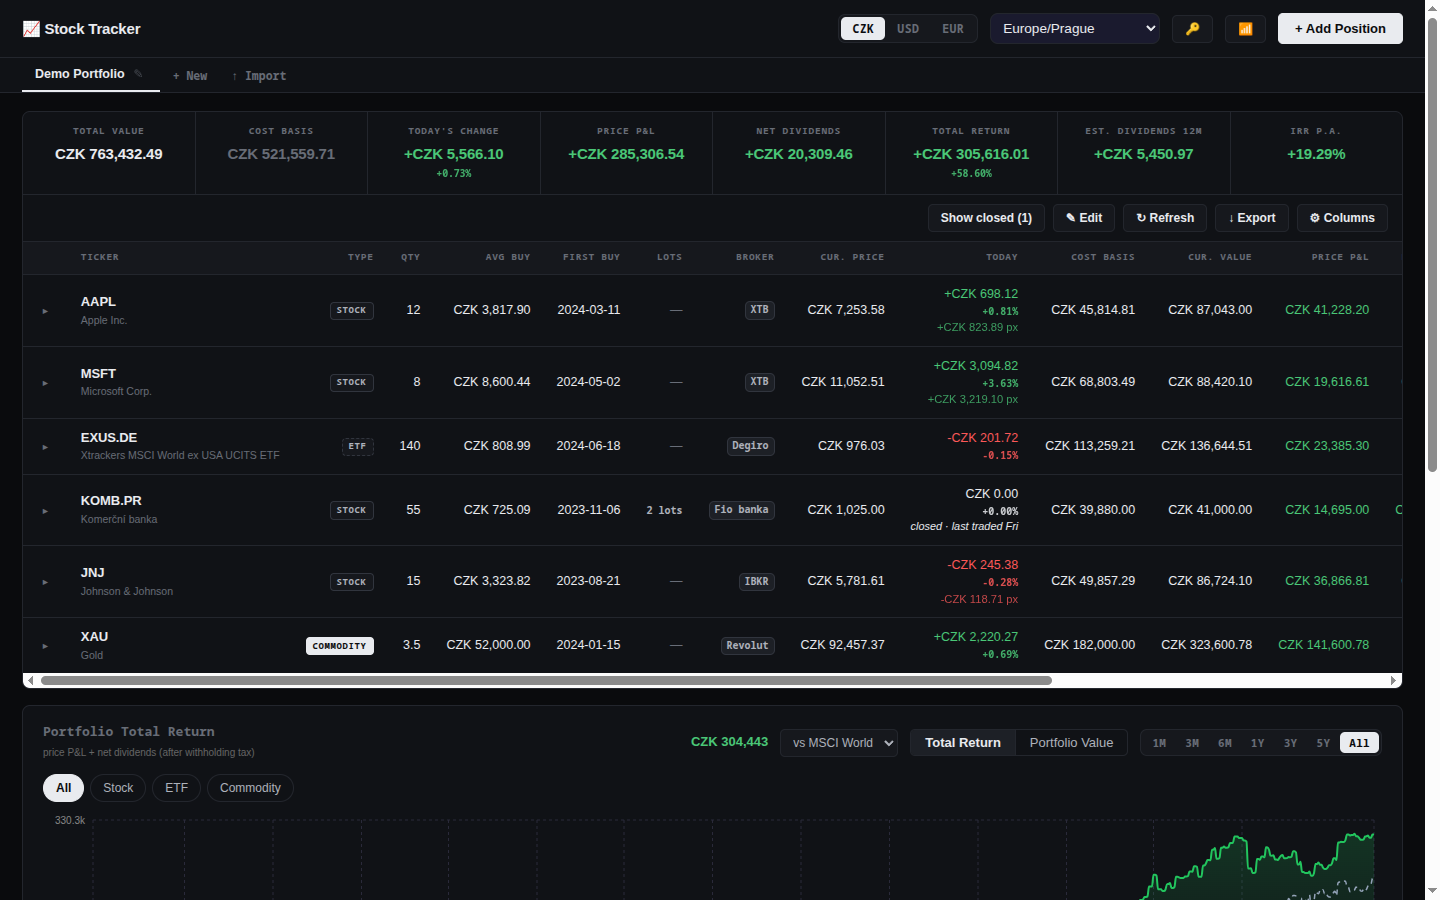
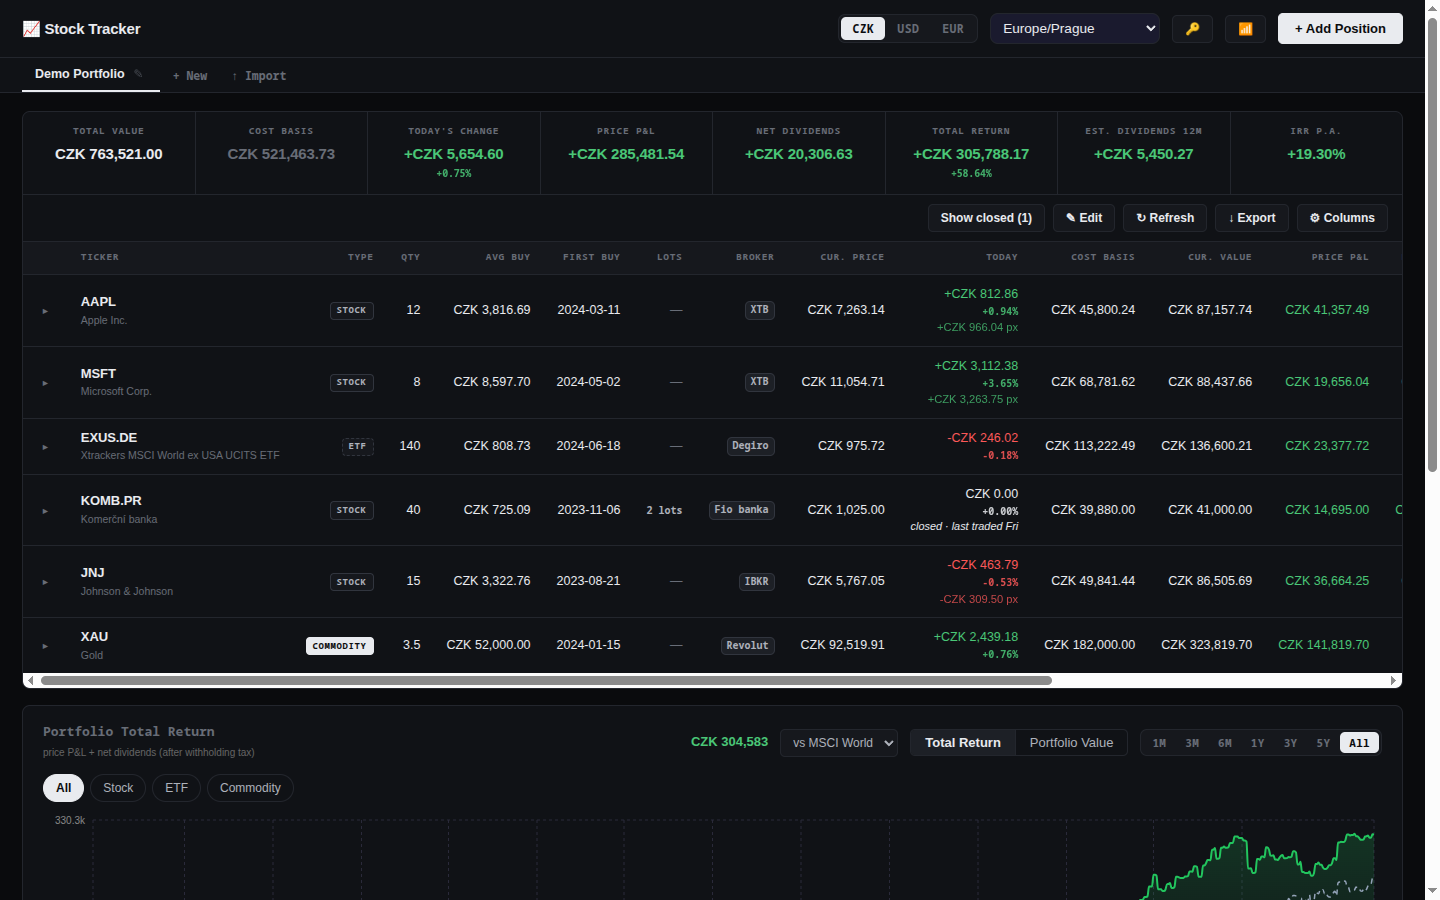
fix: Qty shows shares still held, not every share ever bought
The web Qty column (and its sort) read totalQuantity, which also counts
sold lots, so a partly sold ticker showed 55 while 40 were held. Rows now
carry openQuantity, derived in both apps and pinned by the parity fixture.

The same mix-up priced manual funds wrong: the total value you enter was
divided by every share ever bought instead of the shares held, on web and
Android. Android's sell dialog likewise previewed P&L on all lots at the
lifetime average; it now uses the open lots, as the web modal does.

diff --git a/src/components/PortfolioTable.tsx b/src/components/PortfolioTable.tsx
@@ -343,11 +343,14 @@ export function PortfolioTable({
 
   const startEdit = (ticker: string, prefill: string) => { setEditingTicker(ticker); setEditValue(prefill); setEditError(null) }
   const cancelEdit = () => { setEditingTicker(null); setEditValue(''); setEditError(null) }
-  const commitEdit = (ticker: string, totalQty: number) => {
+  // Value ÷ shares still held: current value is price × open quantity, so dividing by every
+  // share ever bought would understate the price of a partly sold position.
+  const commitEdit = (ticker: string, openQty: number) => {
     const raw = editValue.replace(/\s/g, '').replace(',', '.')
     const totalValue = parseFloat(raw)
     if (!raw || !isFinite(totalValue) || totalValue <= 0) { setEditError('Enter a valid positive number'); return }
-    onSetManualPrice(ticker, totalValue / totalQty)
+    if (openQty <= 0) { setEditError('No open shares to price'); return }
+    onSetManualPrice(ticker, totalValue / openQty)
     cancelEdit()
   }
 
@@ -462,7 +465,7 @@ export function PortfolioTable({
     switch (key) {
       case 'ticker': return r.ticker
       case 'type': return r.type
-      case 'qty': return r.totalQuantity
+      case 'qty': return r.openQuantity
       case 'avgBuy': return cv(r.avgBuyPrice, r.currency)
       case 'firstBuy': return r.firstBuyDate
       case 'lots': return r.lots
@@ -680,11 +683,11 @@ export function PortfolioTable({
                     title="Enter current total position value from your bank report"
                     onChange={(e) => { setEditValue(e.target.value); setEditError(null) }}
                     onKeyDown={(e) => {
-                      if (e.key === 'Enter') commitEdit(r.ticker, r.totalQuantity)
+                      if (e.key === 'Enter') commitEdit(r.ticker, r.openQuantity)
                       if (e.key === 'Escape') cancelEdit()
                     }}
                   />
-                  <button className="price-edit-ok" onClick={() => commitEdit(r.ticker, r.totalQuantity)}>✓</button>
+                  <button className="price-edit-ok" onClick={() => commitEdit(r.ticker, r.openQuantity)}>✓</button>
                   <button className="price-edit-cancel" onClick={cancelEdit}>✕</button>
                   {editError && <span className="price-edit-err-msg">{editError}</span>}
                 </span>
@@ -797,7 +800,7 @@ export function PortfolioTable({
                           )
 
                         case 'qty':
-                          return <td key={col.key} className={cls}>{fmtQty(r.totalQuantity)}</td>
+                          return <td key={col.key} className={cls}>{fmtQty(r.openQuantity)}</td>
 
                         case 'avgBuy':
                           return <td key={col.key} className={cls}>{fmtPrice(cv(r.avgBuyPrice, r.currency), displayCurrency)}</td>

diff --git a/android/feature/portfolio/src/main/kotlin/com/stocktracker/feature/portfolio/SellPositionDialog.kt b/android/feature/portfolio/src/main/kotlin/com/stocktracker/feature/portfolio/SellPositionDialog.kt
@@ -13,6 +13,7 @@ import androidx.compose.runtime.remember
 import androidx.compose.runtime.setValue
 import androidx.compose.ui.Modifier
 import com.stocktracker.core.designsystem.components.AppDialog
+import com.stocktracker.core.calc.isOpenLot
 import com.stocktracker.core.model.PortfolioRow
 import java.time.LocalDate
 import java.util.Locale
@@ -24,14 +25,19 @@ fun SellPositionDialog(row: PortfolioRow, onDismiss: () -> Unit, onConfirm: (sel
     var sellDate by remember { mutableStateOf(LocalDate.now().toString()) }
 
     val price = sellPrice.toDoubleOrNull() ?: 0.0
-    val estimatedPnl = if (price > 0) (price - row.avgBuyPrice) * row.totalQuantity else null
+    // Only the open lots are sold, so the preview uses their quantity and average buy price —
+    // the row-level figures also count lots sold earlier. Mirrors SellPositionModal.
+    val openLots = row.positions.filter(::isOpenLot)
+    val openQty = openLots.sumOf { it.quantity }
+    val openAvgBuy = if (openQty > 0) openLots.sumOf { it.buyPrice * it.quantity } / openQty else 0.0
+    val estimatedPnl = if (price > 0 && openQty > 0) (price - openAvgBuy) * openQty else null
 
     AppDialog(
         onDismissRequest = onDismiss,
         title = { Text("Sell ${row.ticker}") },
         text = {
             Column {
-                Text("${row.lots} lot(s), ${row.totalQuantity} shares", style = MaterialTheme.typography.bodySmall)
+                Text("${openLots.size} lot(s), ${formatQty(openQty)} shares", style = MaterialTheme.typography.bodySmall)
                 OutlinedTextField(sellPrice, { sellPrice = it }, label = { Text("Sell price") }, singleLine = true, modifier = Modifier.fillMaxWidth())
                 OutlinedTextField(sellDate, { sellDate = it }, label = { Text("Sell date (YYYY-MM-DD)") }, singleLine = true, modifier = Modifier.fillMaxWidth())
                 estimatedPnl?.let { pnl ->

diff --git a/android/feature/portfolio/src/main/kotlin/com/stocktracker/feature/portfolio/PortfolioListScreen.kt b/android/feature/portfolio/src/main/kotlin/com/stocktracker/feature/portfolio/PortfolioListScreen.kt
@@ -925,7 +925,8 @@ fun PositionDetailRoute(
                 ManualPriceDialog(
                     portfolioId = uiState.activePortfolioId!!,
                     ticker = row.ticker,
-                    quantity = row.totalQuantity,
+                    // Shares still held: value = price × open quantity, sold lots excluded.
+                    quantity = row.openQuantity,
                     currentManual = if (row.priceIsManual) {
                         com.stocktracker.core.model.ManualPriceEntry(row.currentPrice, row.manualPriceDate ?: "")
                     } else {

diff --git a/android/core/calc/src/test/kotlin/com/stocktracker/core/calc/ParityTest.kt b/android/core/calc/src/test/kotlin/com/stocktracker/core/calc/ParityTest.kt
@@ -92,6 +92,7 @@ class ParityTest {
                 rows.sortedBy { it.ticker }.forEach { r ->
                     add(buildJsonObject {
                         put("ticker", r.ticker)
+                        put("openQuantity", r.openQuantity)
                         put("avgBuyPrice", r.avgBuyPrice)
                         put("currentPrice", r.currentPrice)
                         put("currentValue", r.currentValue)

diff --git a/src/types/index.ts b/src/types/index.ts
@@ -33,6 +33,8 @@ export interface PortfolioRow {
   lots: number           // number of separate purchase lots
   positions: Position[]  // individual lots, sorted by buyDate
   totalQuantity: number
+  /** Shares still held (open lots). totalQuantity also counts sold lots. */
+  openQuantity: number
   avgBuyPrice: number    // weighted average
   firstBuyDate: string
   currentPrice: number

diff --git a/android/core/model/src/main/kotlin/com/stocktracker/core/model/PortfolioRow.kt b/android/core/model/src/main/kotlin/com/stocktracker/core/model/PortfolioRow.kt
@@ -17,6 +17,8 @@ data class PortfolioRow(
     val lots: Int,
     val positions: List<Position>,
     val totalQuantity: Double,
+    /** Shares still held (open lots). [totalQuantity] also counts sold lots. */
+    val openQuantity: Double = totalQuantity,
     val avgBuyPrice: Double,
     val firstBuyDate: String,
     val currentPrice: Double,

diff --git a/src/utils/parity.test.ts b/src/utils/parity.test.ts
@@ -62,6 +62,7 @@ function compute(displayCurrency: string) {
   return {
     rows: [...rows].sort((a, b) => a.ticker.localeCompare(b.ticker)).map((r) => ({
       ticker: r.ticker,
+      openQuantity: r.openQuantity,
       avgBuyPrice: r.avgBuyPrice,
       currentPrice: r.currentPrice,
       currentValue: r.currentValue,

diff --git a/src/utils/rowDerivation.ts b/src/utils/rowDerivation.ts
@@ -138,6 +138,7 @@ export function deriveRow(i: DeriveRowInput): PortfolioRow {
     lots: lots.length,
     positions: [...lots].sort((a, b) => a.buyDate.localeCompare(b.buyDate)),
     totalQuantity: totalQty,
+    openQuantity: openQty,
     avgBuyPrice,
     firstBuyDate,
     currentPrice,

diff --git a/android/core/calc/src/main/kotlin/com/stocktracker/core/calc/RowDerivation.kt b/android/core/calc/src/main/kotlin/com/stocktracker/core/calc/RowDerivation.kt
@@ -138,6 +138,7 @@ fun deriveRow(
         lots = lots.size,
         positions = lots.sortedBy { it.buyDate },
         totalQuantity = totalQty,
+        openQuantity = openQty,
         avgBuyPrice = avgBuyPrice,
         firstBuyDate = firstBuyDate,
         currentPrice = currentPrice,
